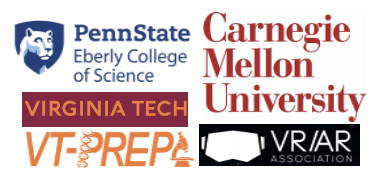
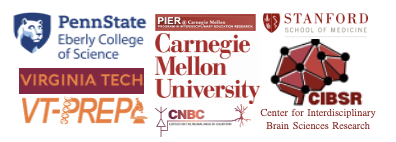
update

diff --git a/index.html b/index.html
@@ -148,19 +148,25 @@ gtag('config', 'UA-127639225-2');
     <div class="index-content">
       <!-- The Content -->
 
-
-
       <div class="bluebg">
       <div class="container">
         <div class="row justify-content-center p-5">
             <b class="text-left" >
-            <a href="https://cibsr.stanford.edu/training-careers/fellowship.html">Center for Interdisciplinary Brain Sciences Research</a> (CIBSR) NIH T32 Training Fellow <br>
-            <a href="https://www.cmu.edu/pier/index.html">Program in Interdisciplinary Education Research</a> (PIER) Fellow <br>
-            <a href="http://www.cnbc.cmu.edu/training/graduate/cnbc-grad-training-program/">Center for the Neural Basis of Cognition </a> (CNBC) Fellow <br>
-            Email: cassie24@stanford.edu
+            <h2><b>Stanford University</b> </h2>
+            2022 - present | Psychiatry & Sports Neuroscience, <a href="https://cibsr.stanford.edu/training-careers/fellowship.html">NIH T32</a> Postdoctoral Scholar <br>
+            <h2><b>Carnegie Mellon University</b> </h2>
+            2016 - 2022 | Psychology & Cognitive Neuroscience, <a href="https://www.cmu.edu/pier/index.html">PIER</a> &
+            <a href="http://www.cnbc.cmu.edu/training/graduate/cnbc-grad-training-program/">CNBC </a> Fellow <br>
+
+            <center>
+             <img src="images/background.png" style="width:100%"> <br>
+
+                      <a href="mailto:cassie24@stanford.edu"> cassie24@stanford.edu </a>  <br>
+
         </b>
         </div>
         </div>
+
       </div>
 
 

diff --git a/css/styles.css b/css/styles.css
@@ -332,6 +332,11 @@ ul{
 	height: 60px;
 	width: auto;
 }
+}
+#edlogo {
+	height: 50px;
+	width: 50px;
+}
 .freetime p {
 	font-size: 120%;
 }
